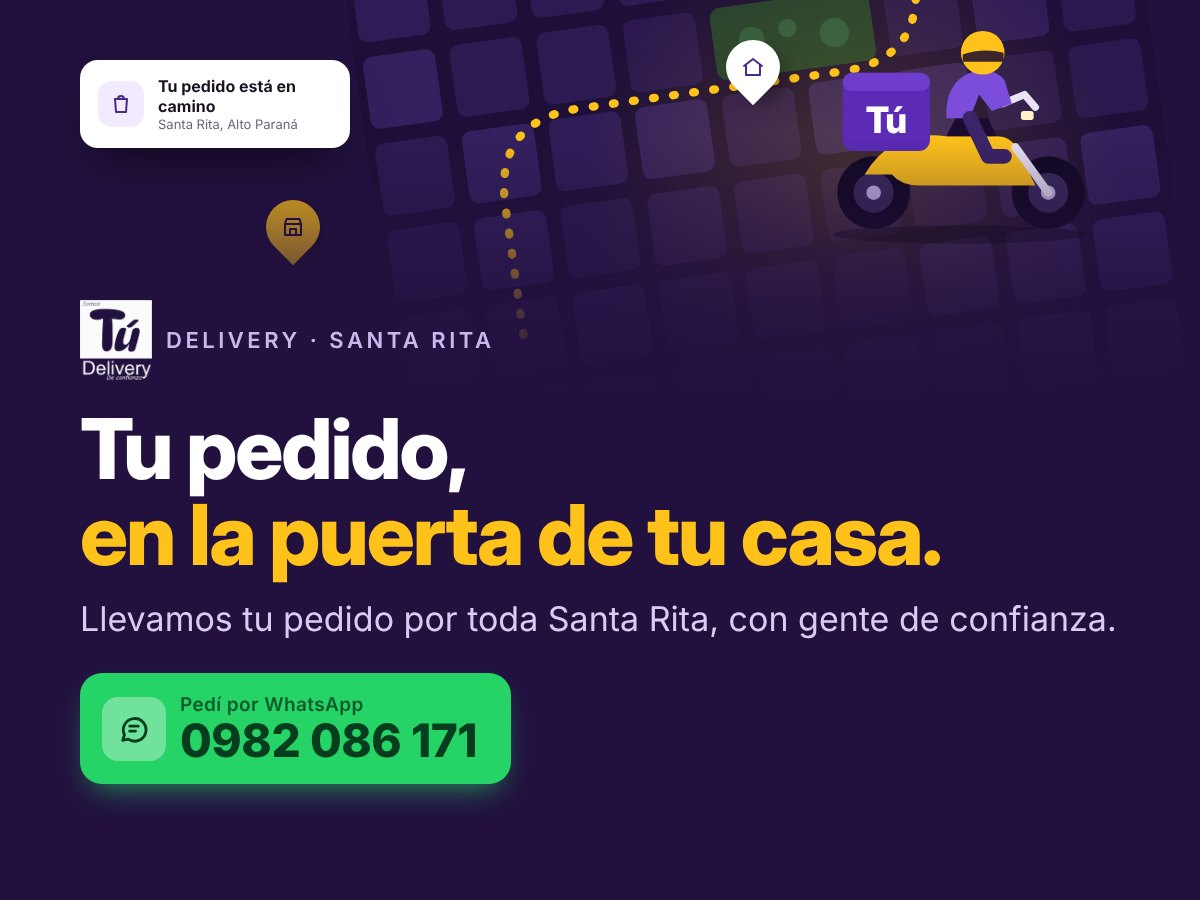
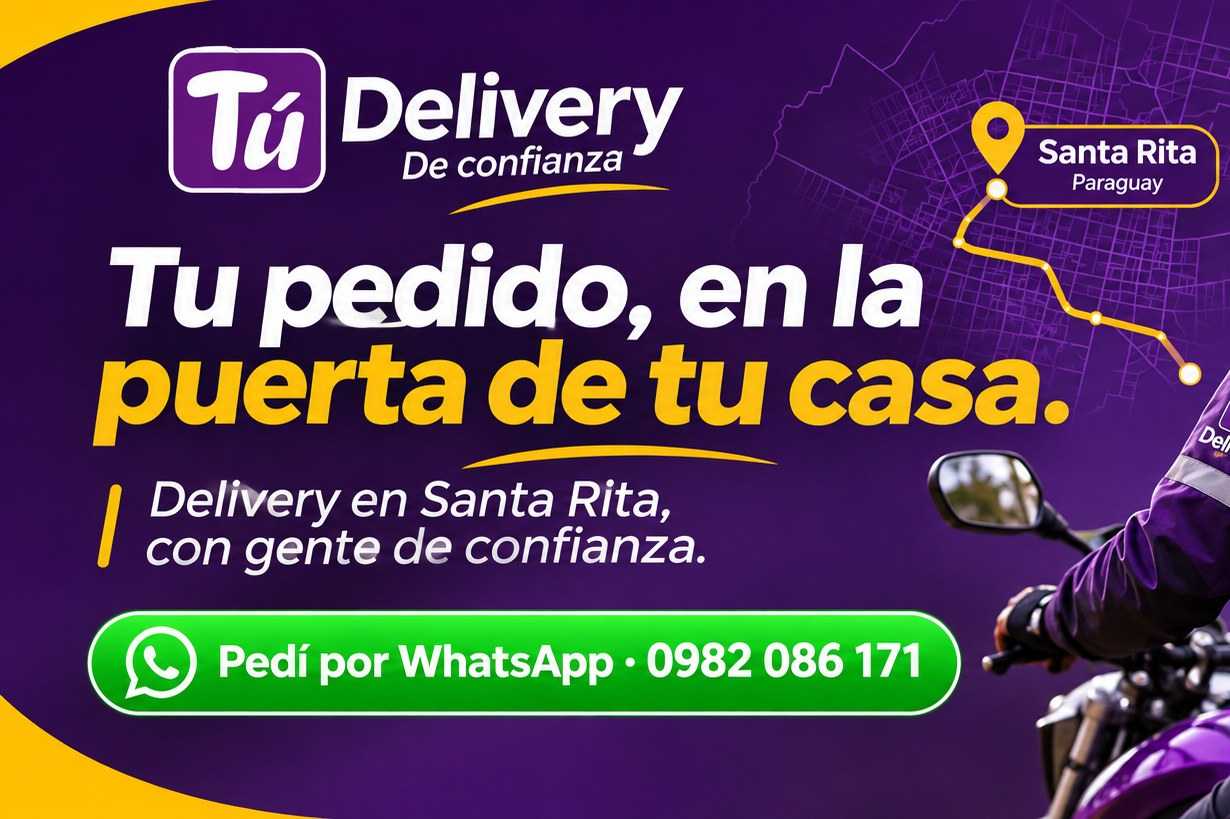
Guía Vitrix: artes novas da Tu Delivery e dos planos Vitrix no slider
Claude-Session: https://claude.ai/code/session_019EnWZ2w3FzxJZ5bukhMXBN

diff --git a/araujo-tech-site/guia/index.html b/araujo-tech-site/guia/index.html
@@ -181,7 +181,7 @@ const shuf=a=>{a=a.slice();for(let i=a.length-1;i>0;i--){const j=Math.floor(Math
 let SL={items:[],i:0,tm:null,sig:'',ord:null};
 /* banners da casa (Tu Delivery e planos Vitrix): sempre no slider, depois dos pagos e dos Premium/VIP */
 const TD_WA='https://wa.me/595982086171?text='+encodeURIComponent('Hola Tu Delivery, quiero pedir un delivery');
-const HOUSE=[{id:'h-td',t:'Tu Delivery · 0982 086 171',u:TD_WA,img:'/img/guia/tu-delivery.jpg?v=3',imgm:'/img/guia/tu-delivery-m.jpg?v=3'},{id:'h-vx',t:'Planes Vitrix',u:'https://araujotechsistemas.com/vitrix/#planes',img:'/img/guia/vitrix-planes.jpg?v=3',imgm:'/img/guia/vitrix-planes-m.jpg?v=3'}];
+const HOUSE=[{id:'h-td',t:'Tu Delivery · 0982 086 171',u:TD_WA,img:'/img/guia/tu-delivery.jpg?v=4',imgm:'/img/guia/tu-delivery-m.jpg?v=4'},{id:'h-vx',t:'Planes Vitrix',u:'https://araujotechsistemas.com/vitrix/#planes',img:'/img/guia/vitrix-planes.jpg?v=4'}];
 function slItems(){const ads=(G.ads||[]).filter(a=>a&&a.img).map(a=>({k:'ad',a}));
  const dest=(LIST||[]).filter(c=>c.dest).map(c=>({k:'cl',c}));
  if(!SL.ord)SL.ord={};const o=x=>{const id=x.k==='ad'?'a'+x.a.id:'c'+x.c.id;if(SL.ord[id]==null)SL.ord[id]=Math.random();return SL.ord[id]};
